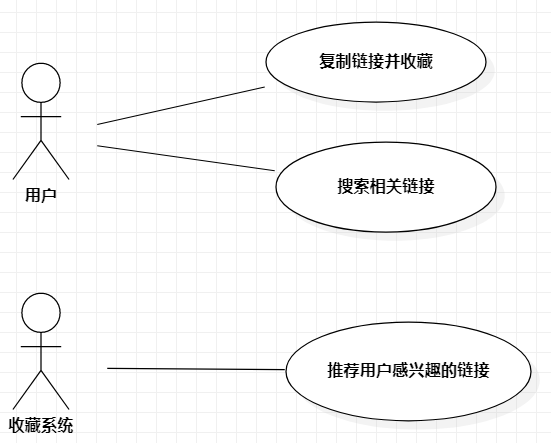
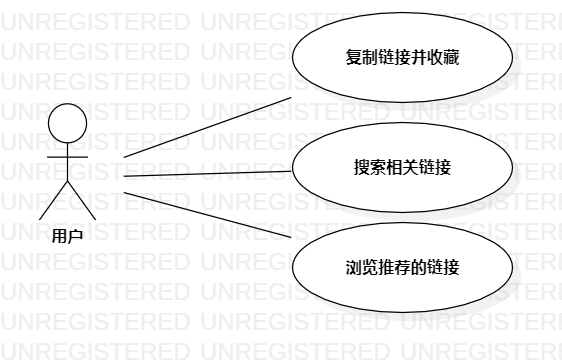
#2 #66 实验二：用例建模

diff --git a/students/1714080902317/lab2.md b/students/1714080902317/lab2.md
@@ -35,48 +35,51 @@
 
 ### 表1：复制链接并收藏用例规约
 
-| 用例编号 | UC01                                                | 备注                                        |
-| -------- | --------------------------------------------------- | ------------------------------------------- |
-| 用例名称 | 复制链接并收藏                                      |                                             |
-| 前置条件 | 链接收藏应用系统启动                                |                                             |
-| 后置条件 | 剪贴板中的内容存在链接                              | 系统监听剪贴板中的内容变化                  |
-| 基本流程 | 1. 用户打开APP，保持后台运行                        | 必要                                        |
-| ~        | 2. 进入其它应用，复制要收藏的链接到剪贴板           | 主动触发收藏                                |
-| ~        | 3. 系统判断剪贴板的链接是否被当前用户收藏过         | 是：提示用户该链接已收藏<br/>否：继续下一步 |
-| ~        | 4. 系统判断该链接是否有其它用户收藏过               | 是：执行第5步<br />否：执行第6步            |
-| ~        | 5. 系统提供该链接的标题和热门标签                   | 接着执行第7步                               |
-| ~        | 6. 系统检测到剪贴板的链接，使用爬虫爬取该链接的标题 | 接着执行第7步                               |
-| ~        | 7. 用户点击（编辑）提示信息即可收藏该链接           | 用户也可忽略对该链接的收藏                  |
-| 扩展流程 | 剪贴板有链接但网络不通时提示网络状态                |                                             |
+| 用例编号 | UC01                                                | 备注                       |
+| -------- | --------------------------------------------------- | -------------------------- |
+| 用例名称 | 复制链接并收藏                                      |                            |
+| 前置条件 | 链接收藏应用系统启动                                |                            |
+| 后置条件 | 剪贴板中的内容存在链接                              | 系统监听剪贴板中的内容变化 |
+| 基本流程 | 1. 用户打开APP，保持后台运行。                      | 必要                       |
+| ~        | 2. 系统判断链接未被当前用户收藏。                   |                            |
+| ~        | 3. 系统查询该链接未被其它用户收藏。                 |                            |
+| ~        | 4. 使用爬虫爬取该链接的标题。                       |                            |
+| ~        | 5. 用户编辑标签并提交。                             |                            |
+| ~        | 6. 系统插入该链接，搜索引擎创建索引，创建热门标签。 | 用例执行成功               |
+| 扩展流程 | 1.1 检测网络状态，无网络时提示“网络未连接”。        | 用例执行失败               |
+|          | 2.1 提示“该链接已收藏”。                            | 用例结束                   |
+|          | 3.1 系统查询链接的标题和热门标签。                  |                            |
+|          | 3.2 用户修改标签并提交。                            |                            |
+|          | 3.3 系统修改热门标签。                              | 用例执行成功               |
 
 ### 表2：搜索相关链接用例规约
 
-| 用例编号 | UC02                                                      | 备注                     |
-| -------- | --------------------------------------------------------- | ------------------------ |
-| 用例名称 | 搜索相关链接                                              | 本地、全网搜索           |
-| 前置条件 | 链接收藏应用系统启动                                      |                          |
-| 后置条件 | 应用在前台运行                                            |                          |
-| 基本流程 | 1. 用户打开APP，保持前台运行                              | 必要                     |
-| ~        | 2. 在“我的”页面进行本地搜索                               | 搜索当前用户已收藏的链接 |
-| ~        | 3. 在“全网”页面进行全网搜索                               | 搜索全网用户已收藏的链接 |
-| ~        | 4. 搜索支持链接标题或标签的关键字模糊搜索                 |                          |
-| ~        | 5. 在结果列表中点击一项即可浏览网页内容                   |                          |
-| ~        | 6. 在结果列表中点击收藏（删除）即可收藏（取消收藏）该链接 |                          |
-| 扩展流程 | 当全网搜索时，网络不通需要提示网络状态                    |                          |
+| 用例编号 | UC02                                                         | 备注           |
+| -------- | ------------------------------------------------------------ | -------------- |
+| 用例名称 | 搜索相关链接                                                 | 本地、全网搜索 |
+| 前置条件 | 链接收藏应用系统启动                                         |                |
+| 后置条件 | 应用在前台运行                                               |                |
+| 基本流程 | 1. 用户打开APP，保持前台运行。                               | 必要           |
+| ~        | 2. 通过下拉框选择本地或者全网搜索。                          |                |
+| ~        | 3. 判断关键字不为空，搜索标题或标签匹配关键字的链接。        |                |
+| ~        | 4. 添加删除按钮到用户已收藏链接项的末尾。点击按钮修改用户的收藏信息。 | 列表显示       |
+| ~        | 5. 添加收藏按钮到用户未收藏链接项的末尾。点击按钮，用户修改标签并提交，系统修改链接的热门标签。 | 列表显示       |
+|          | 6. 点击列表项，打开浏览器，显示该项链接的网页。              |                |
+| 扩展流程 | 2.1 进行全网搜索时必须有网络，否则提示“网络未连接”，并只允许本地搜索 |                |
 
-### 表3：推荐用户感兴趣的链接用例规约
+### 表3：浏览推荐的链接用例规约
 
-| 用例编号 | UC03                                                      | 备注 |
-| -------- | --------------------------------------------------------- | ---- |
-| 用例名称 | 推荐用户感兴趣的链接                                      |      |
-| 前置条件 | 链接收藏应用系统启动                                      |      |
-| 后置条件 | 推荐用户已关注的领域或用户手动选择推荐领域                | 可选 |
-| 基本流程 | 1. 用户打开APP，前台运行                                  | 可选 |
-| ~        | 2. 打开“推荐”页面                                         | 必要 |
-| ~        | 3. 根据用户关注的领域推送相关的链接                       |      |
-| ~        | 4. 用户手动选择单个领域后，显示该领域相关的热门链接       |      |
-| ~        | 5. 在推荐列表中点击一项即可浏览网页内容                   |      |
-| ~        | 6. 在推荐列表中点击收藏（删除）即可收藏（取消收藏）该链接 |      |
-| 扩展流程 | 网络不通需要提示网络状态                                  |      |
-
-### 
+| 用例编号 | UC03                                                         | 备注     |
+| -------- | ------------------------------------------------------------ | -------- |
+| 用例名称 | 浏览推荐的链接                                               |          |
+| 前置条件 | 链接收藏应用系统启动                                         |          |
+| 后置条件 | 用户已关注相关领域或用户手动选择浏览领域                     | 可选     |
+| 基本流程 | 1. 用户打开打开“推荐”页面。                                  | 可选     |
+| ~        | 2. 点击某一领域的添加（删除）按钮，修改用户的关注信息。      |          |
+| ~        | 3. 根据用户关注的领域查询并推送相关的链接，并更新用户本地缓存。 |          |
+| ~        | 4. 用户手动选择单个领域后，查询并推送该领域相关的热门链接，并更新用户本地缓存。 |          |
+| ~        | 5. 添加删除按钮到用户已收藏链接项的末尾。点击按钮修改用户的收藏信息。 | 列表显示 |
+| ~        | 6. 添加收藏按钮到用户未收藏链接项的末尾。点击按钮，用户修改标签并提交，系统修改链接的热门标签。 | 列表显示 |
+| ~        | 7. 点击列表项，打开浏览器，显示该项链接的网页。              |          |
+| 扩展流程 | 1.1 若网络错误，提示“网络未连接”，显示最后联网时缓存的相关连接。 |          |
+|          | 3.1 用户未关注任何领域，提示“请添加关注的领域”。             |          |
